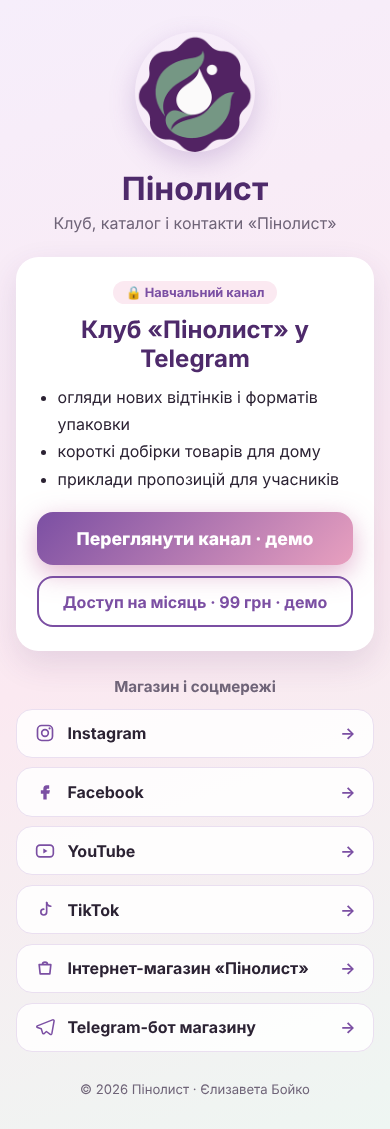
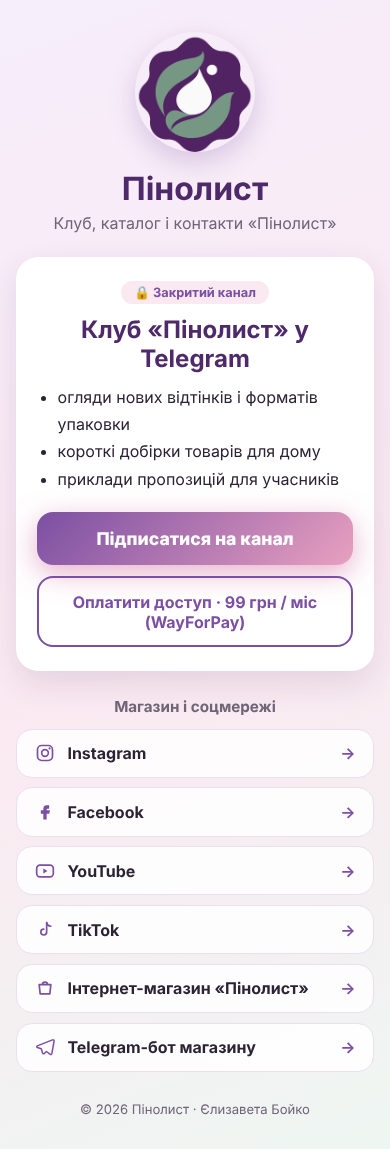
Comit(Pay)

diff --git a/index.html b/index.html
@@ -20,11 +20,11 @@
     <main>
       <!-- Основний заклик: кнопка підписки на закритий канал -->
       <section class="club">
-        <span class="badge">🔒 Навчальний канал</span>
+        <span class="badge">🔒 Закритий канал</span>
         <h2>Клуб «Пінолист» у Telegram</h2>
         <ul><li>огляди нових відтінків і форматів упаковки</li><li>короткі добірки товарів для дому</li><li>приклади пропозицій для учасників</li></ul>
-        <a href="https://t.me/+Pinolyst_Club_demo" class="btn-join" target="_blank" rel="noopener">Переглянути канал · демо</a>
-        <a href="https://secure.wayforpay.com/payment/pinolyst_club99" class="btn-pay" target="_blank" rel="noopener">Доступ на місяць · 99 грн · демо</a>
+        <a href="https://t.me/+eC0vN3_kn0BlYjUy" class="btn-join" target="_blank" rel="noopener">Підписатися на канал</a>
+        <a href="https://secure.wayforpay.com/button/bd3f54842ad53" class="btn-pay" target="_blank" rel="noopener">Оплатити доступ · 99 грн / міс (WayForPay)</a>
       </section>
 
       <!-- Соціальні мережі та ресурси -->

diff --git a/subscribe_button.html b/subscribe_button.html
@@ -1,7 +1,7 @@
 <!-- Кнопка підписки на закритий Telegram-канал «Пінолист Club».
      Вставте цей код на будь-який сайт. Замість href — реальний join-лінк каналу (https://t.me/+…). -->
-<a href="https://t.me/+Pinolyst_Club_demo" target="_blank" rel="noopener"
+<a href="https://t.me/+eC0vN3_kn0BlYjUy" target="_blank" rel="noopener"
    style="display:inline-block;padding:14px 28px;border-radius:14px;background:linear-gradient(135deg,#7b4fa3,#e8a0bf);
           color:#ffffff;font:bold 18px Arial,sans-serif;text-decoration:none;box-shadow:0 6px 16px rgba(123,79,163,.35);">
-  💜 Переглянути канал · демо «Пінолист Club»
+  💜 Підписатися на канал «Пінолист Club»
 </a>

diff --git a/README.md b/README.md
@@ -3,15 +3,15 @@
 **Автор:** Єлизавета Бойко, група 3-2з
 
 ## Що в репозиторії
-- `index.html` + `css/style.css` — **сторінка з посиланнями (link-in-bio)**: логотип і назва → картка «Клуб «Пінолист» у Telegram» з позначкою «Закритий канал» і кнопкою **«Переглянути канал · демо»** + кнопка «Доступ на місяць · 99 грн · демо» → блок «Магазин і соцмережі» (Instagram, Facebook, YouTube, TikTok, інтернет-магазин, Telegram-бот) → футер. Mobile-first, hover-ефекти.
+- `index.html` + `css/style.css` — **сторінка з посиланнями (link-in-bio)**: логотип і назва → картка «Клуб «Пінолист» у Telegram» з позначкою «Закритий канал» і кнопкою **«Підписатися на канал»** + кнопка «Оплатити доступ · 99 грн / міс (WayForPay)» → блок «Магазин і соцмережі» (Instagram, Facebook, YouTube, TikTok, інтернет-магазин, Telegram-бот) → футер. Mobile-first, hover-ефекти.
 - `subscribe_button.html` — окрема **кнопка підписки** (HTML-код для вставлення на будь-який сайт).
 - `channel_avatar.png` (640×640) — аватар для каналу.
 - `docs/INSTRUKTSIIA.md` — покрокові дії в WayForPay і Telegram з даними, які треба вводити.
 - `docs/screenshots/` — вигляд сторінки на комп'ютері й телефоні, кнопка підписки.
 
-## Посилання (замініть демо-значення в `content/site.json` → `links`, потім перезберіть)
-- Join-лінк каналу: `https://t.me/+Pinolyst_Club_demo` *(демо)*
-- Платіжне посилання WayForPay: `https://secure.wayforpay.com/payment/pinolyst_club99` *(демо)*
+## Посилання
+- Join-лінк закритого каналу: `https://t.me/+eC0vN3_kn0BlYjUy`
+- Платіжне посилання WayForPay: `https://secure.wayforpay.com/button/bd3f54842ad53`
 - Магазин: `../pinolyst-lab11/` (відносний шлях до репозиторію `pinolyst-lab11` на тому ж GitHub-акаунті)
 - Сторінка онлайн: `https://elizavetboiko.github.io/pinolyst-lab10/`
 
